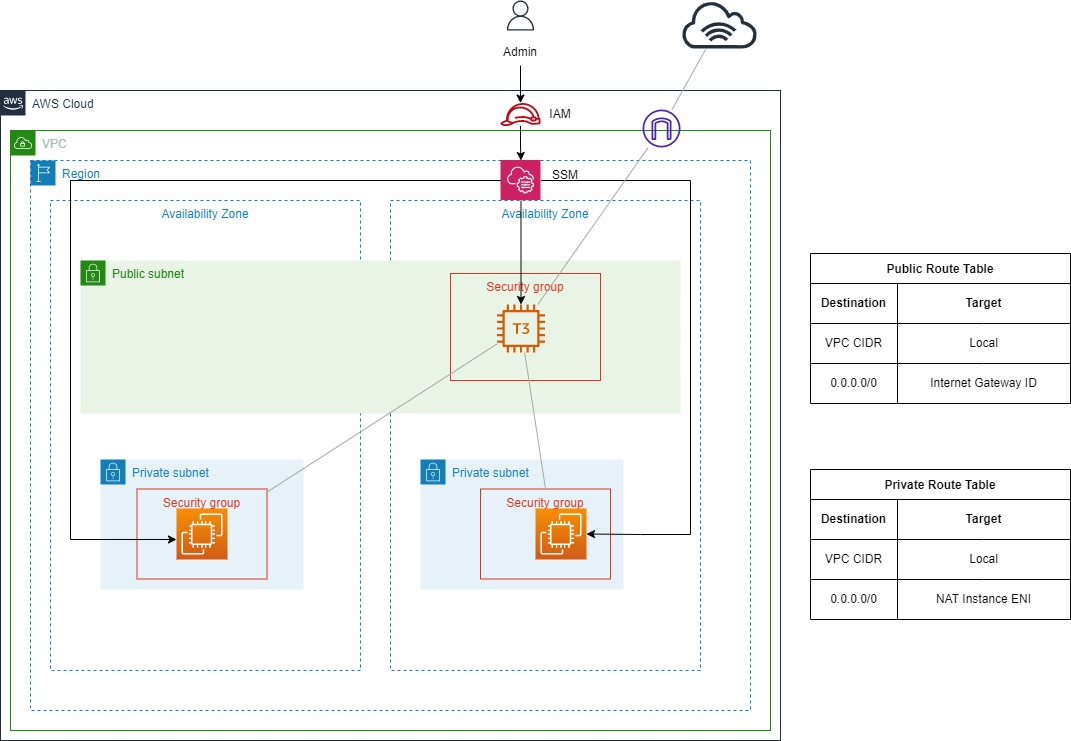
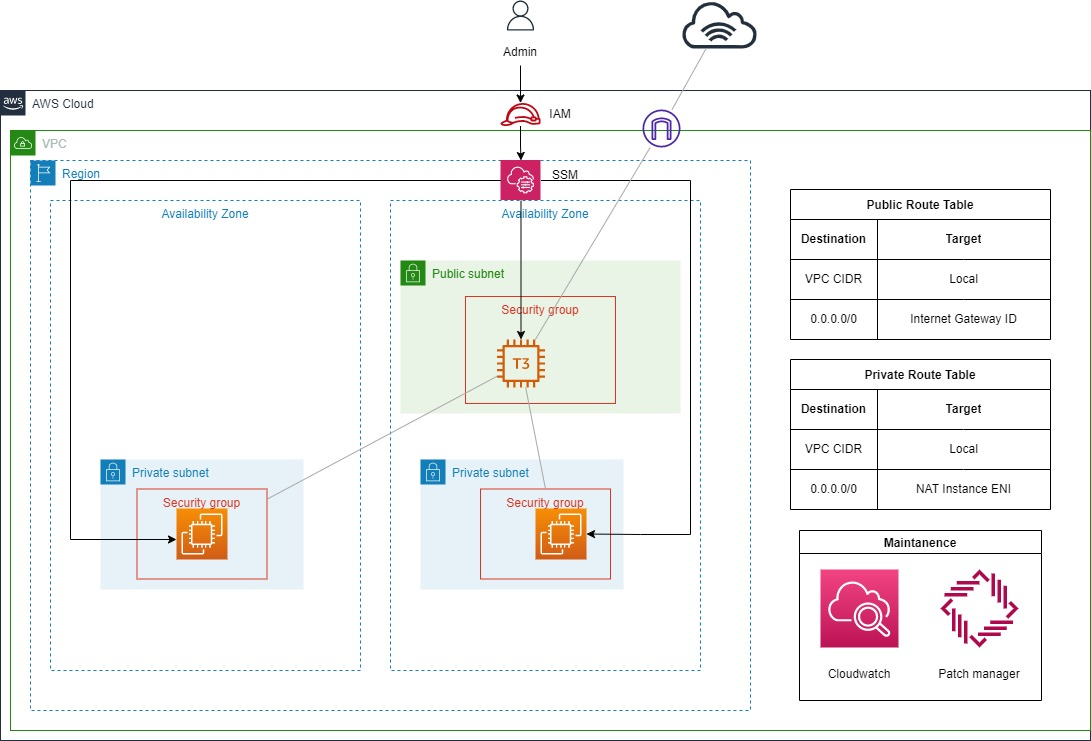
Add cloudwatch, patch manager, basic_example. Follow naming convention.

diff --git a/README.md b/README.md
@@ -8,9 +8,12 @@ For production, please use NAT Gateway.
 
 # V1 Design
 ![V1 Design](public_instance_v1.jpg)
+- Refer basic_example folder
 - T3 nano instance for NAT instance, because regardless of size, T3 gives network of 5 Gigabit anyways, so might as well use the smallest one for cost-saving
 - While there are other EC2 instance families with network Gigabit of more than 5, T3 is still most cost-effective. For example, an A1 medium, which has 10 Gigabit, is around 6 times more expensive than a T3 nano.
 - SSM for NAT instance (Better security, no need to open port 22 and rely on SSH key)
+- Amazon Linux 2 for AMI, because it already comes with SSM installed
+- Patch manager is for automatic security patches
 
 # Changes made
 1. Add more variables and reduce hard-coded values.
